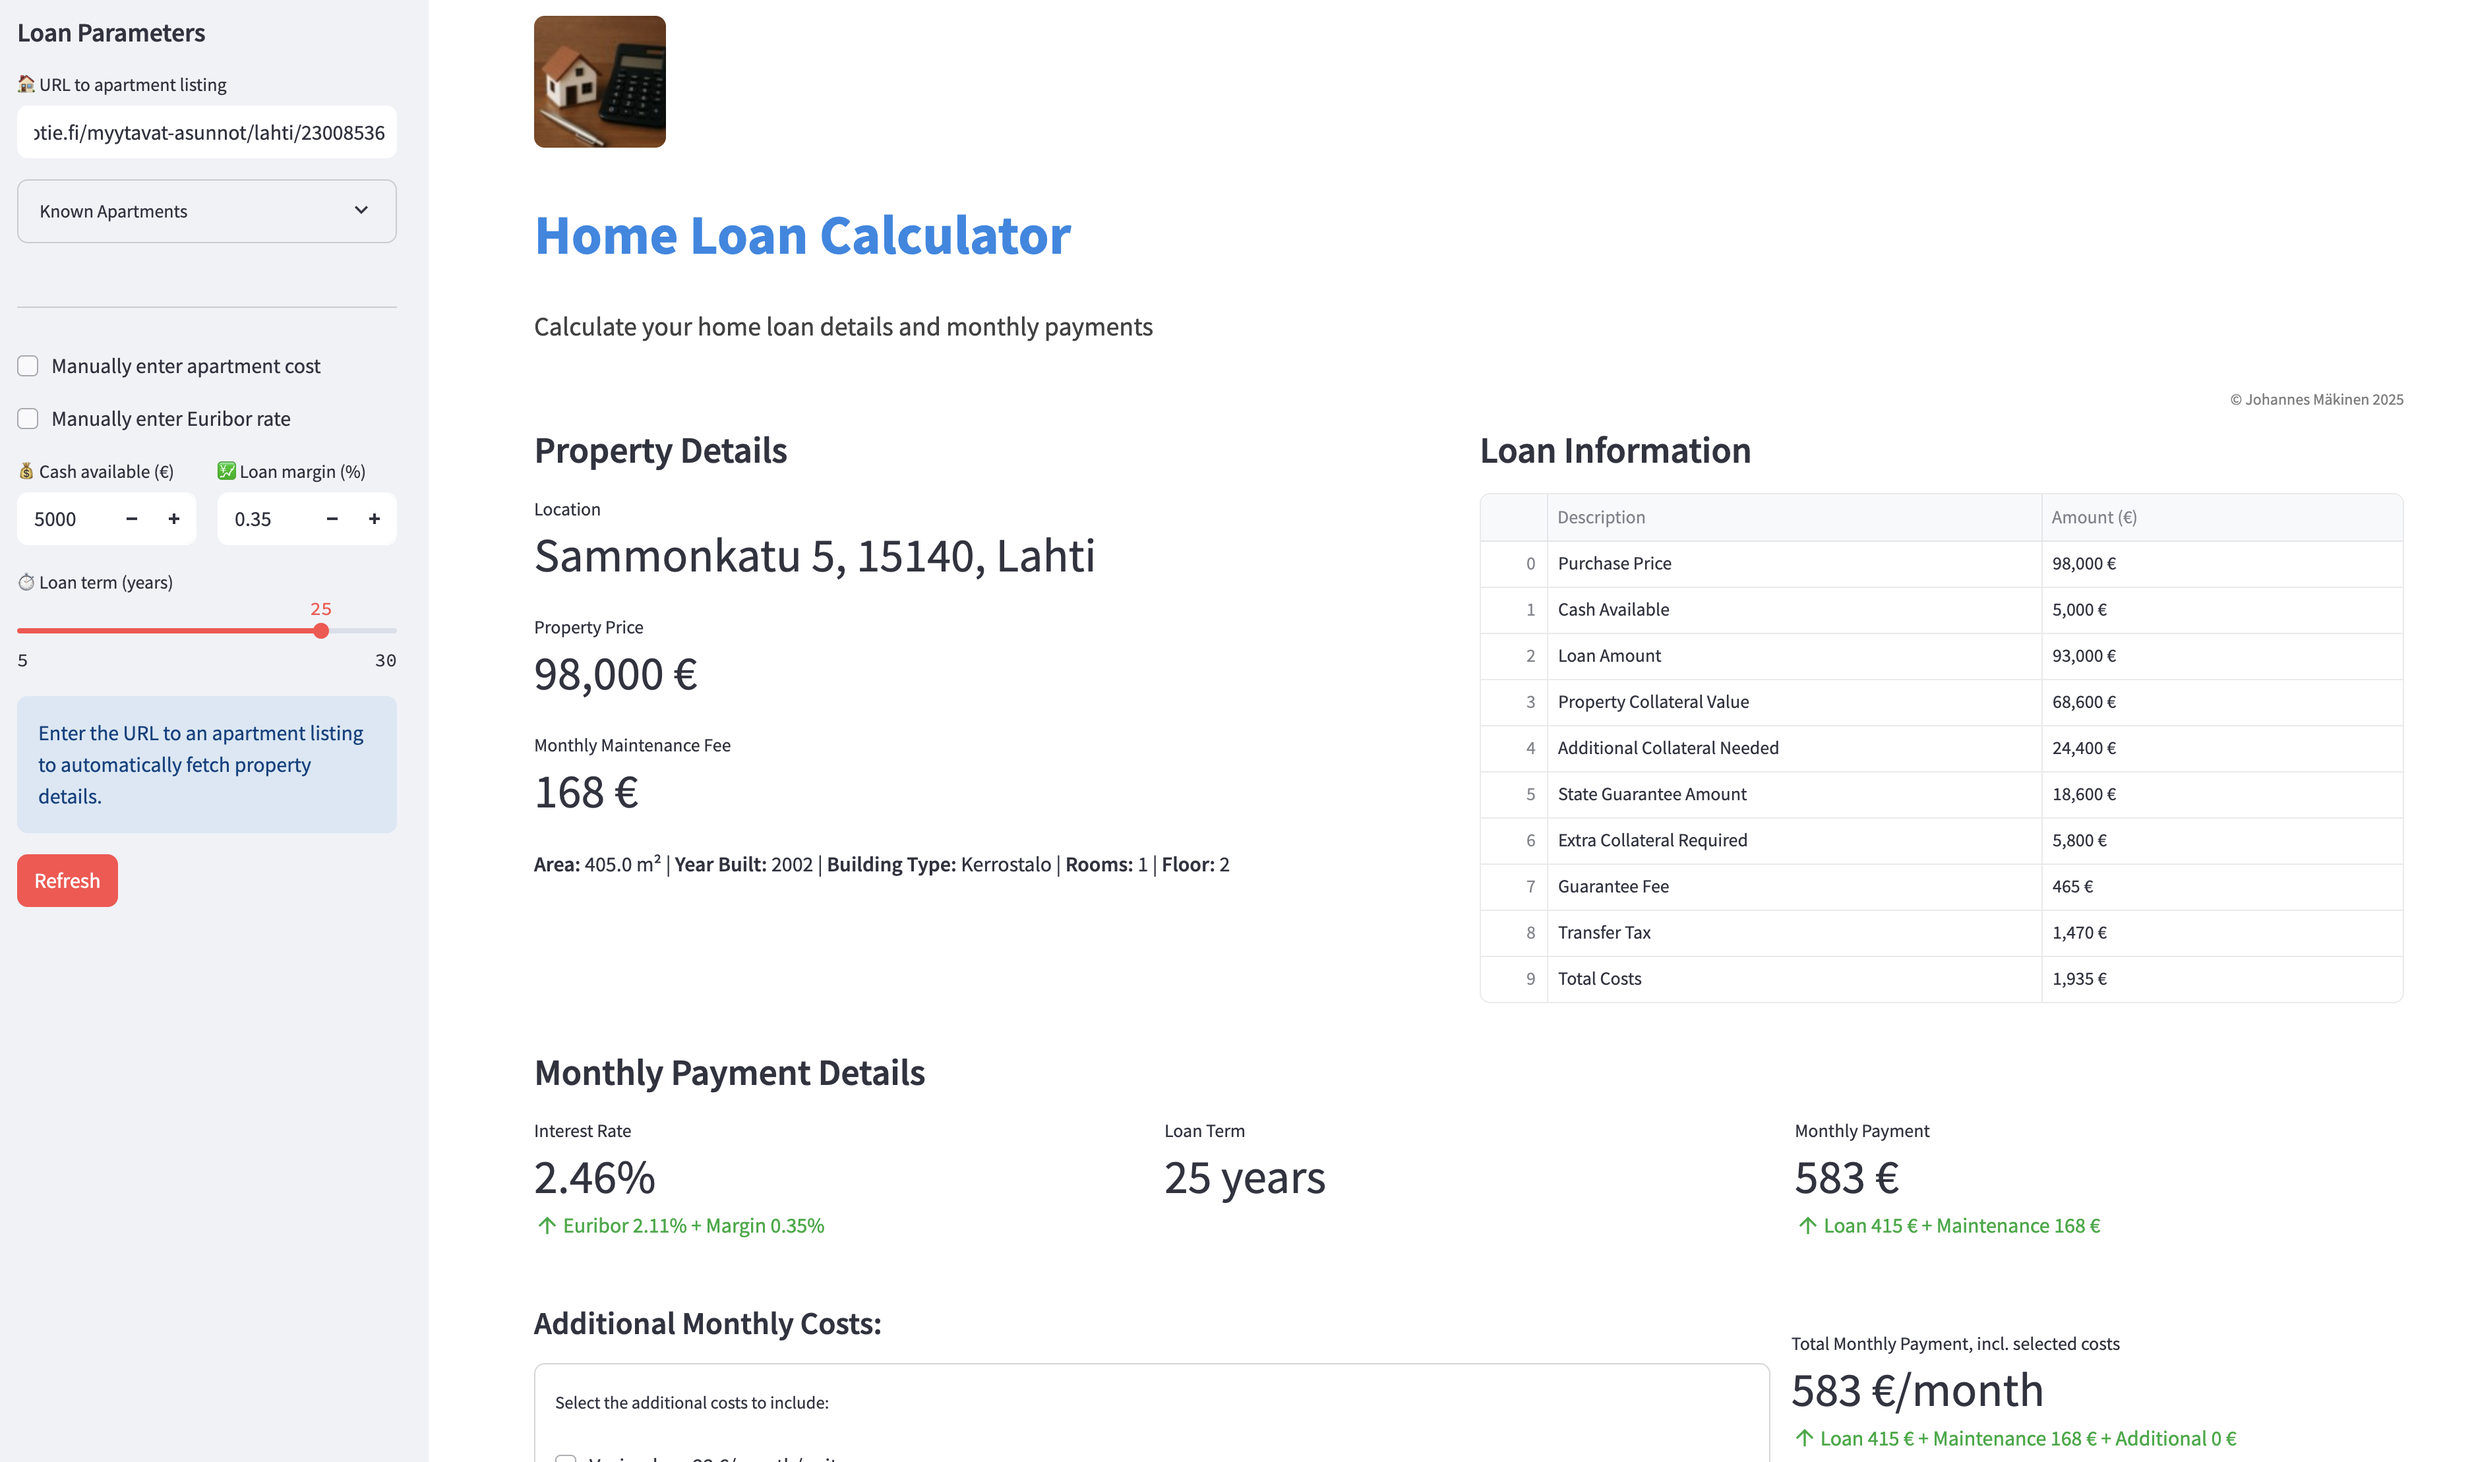
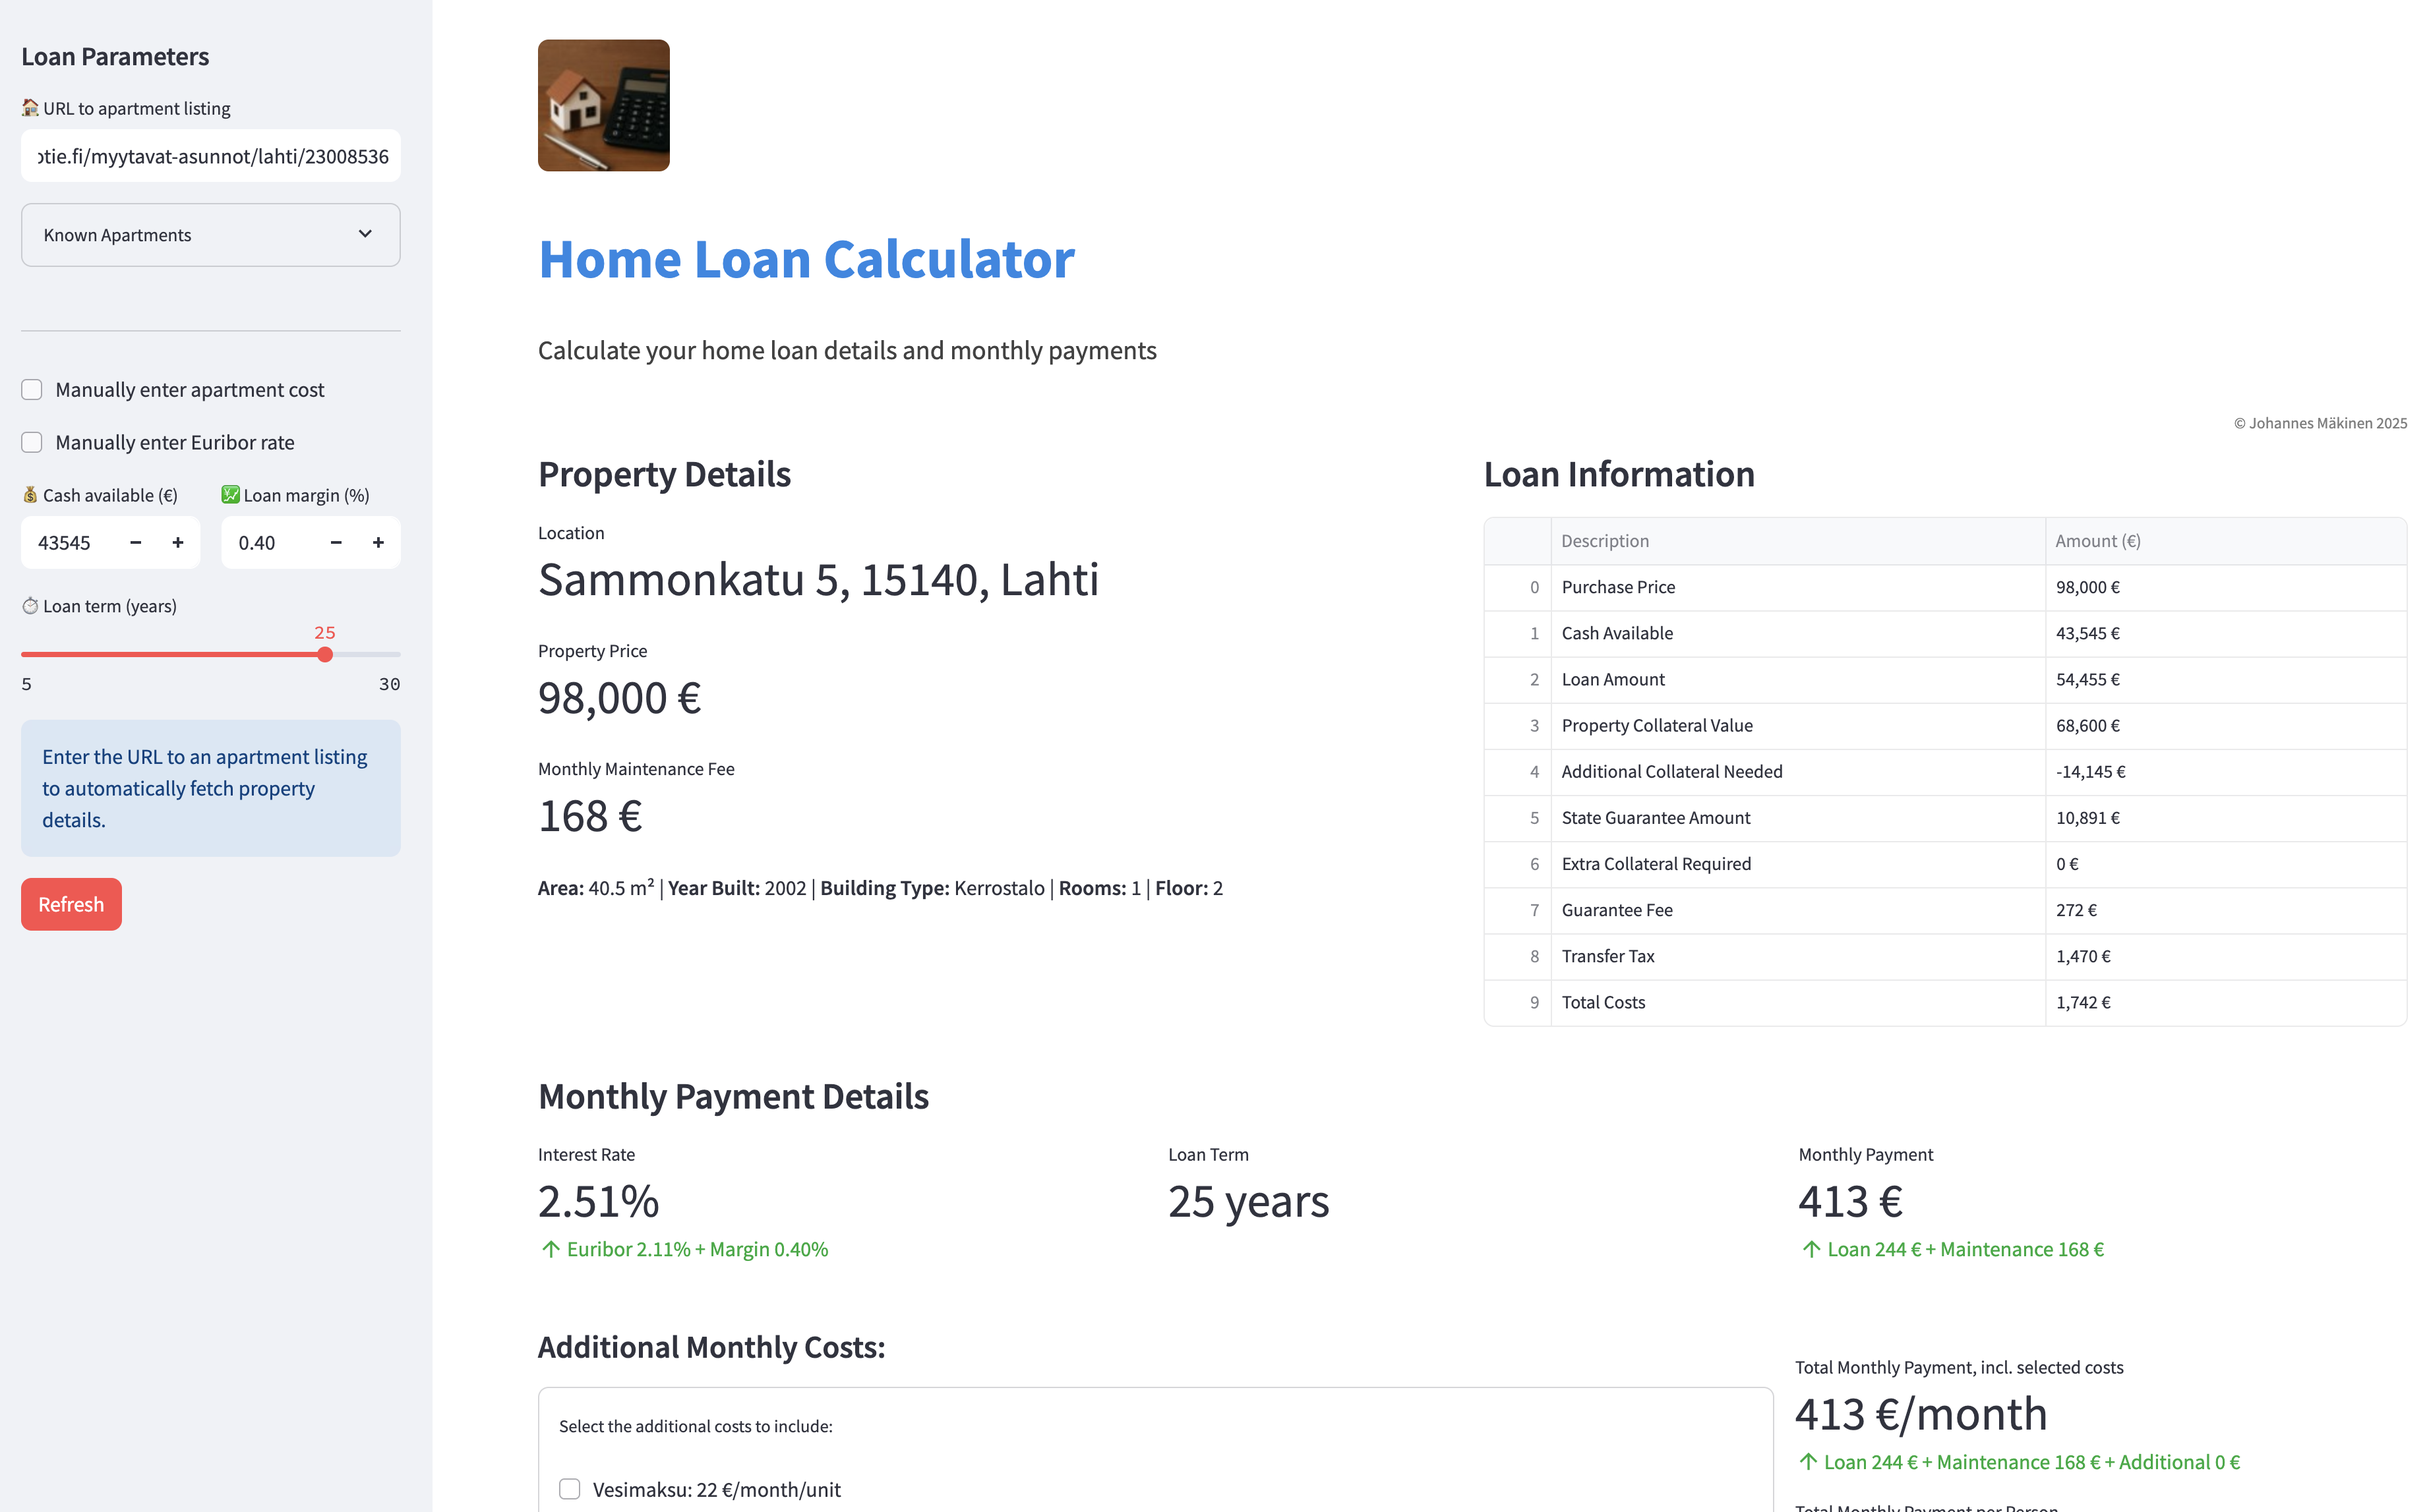
fix: app ui image, decimals in apartment area

diff --git a/src/utils.py b/src/utils.py
@@ -41,14 +41,16 @@ def get_apartment_info(url_):
     response = requests.get(url_)
     soup = BeautifulSoup(response.text, 'html.parser')
     street_address = soup.find('meta', property='og:street-address')['content']
-    street_address
     price = soup.find('dt', string='Velaton hinta').find_next('dd').string
     price = float(re.sub(r'\D', '', price))
     vastike = soup.find('dt', string='Hoitovastike').find_next('dd').string
     vastike = vastike.replace(',', '.')
     vastike = float(re.sub(r'[^\d.,]', '', vastike))
     size = soup.find('dt', string='Asuinpinta-ala').find_next('dd').string
-    size = float(re.sub(r'\D', '', size))
+    size = size.replace(',', '.')
+    print('Size:', size)
+    size = float(re.sub(r'[^\d.,]', '', size))
+    print('Size float:', size)
     room_count = soup.find('dt', string='Huoneita').find_next('dd').string
     room_count = int(room_count)
     floor = soup.find('dt', string='Kerros')
